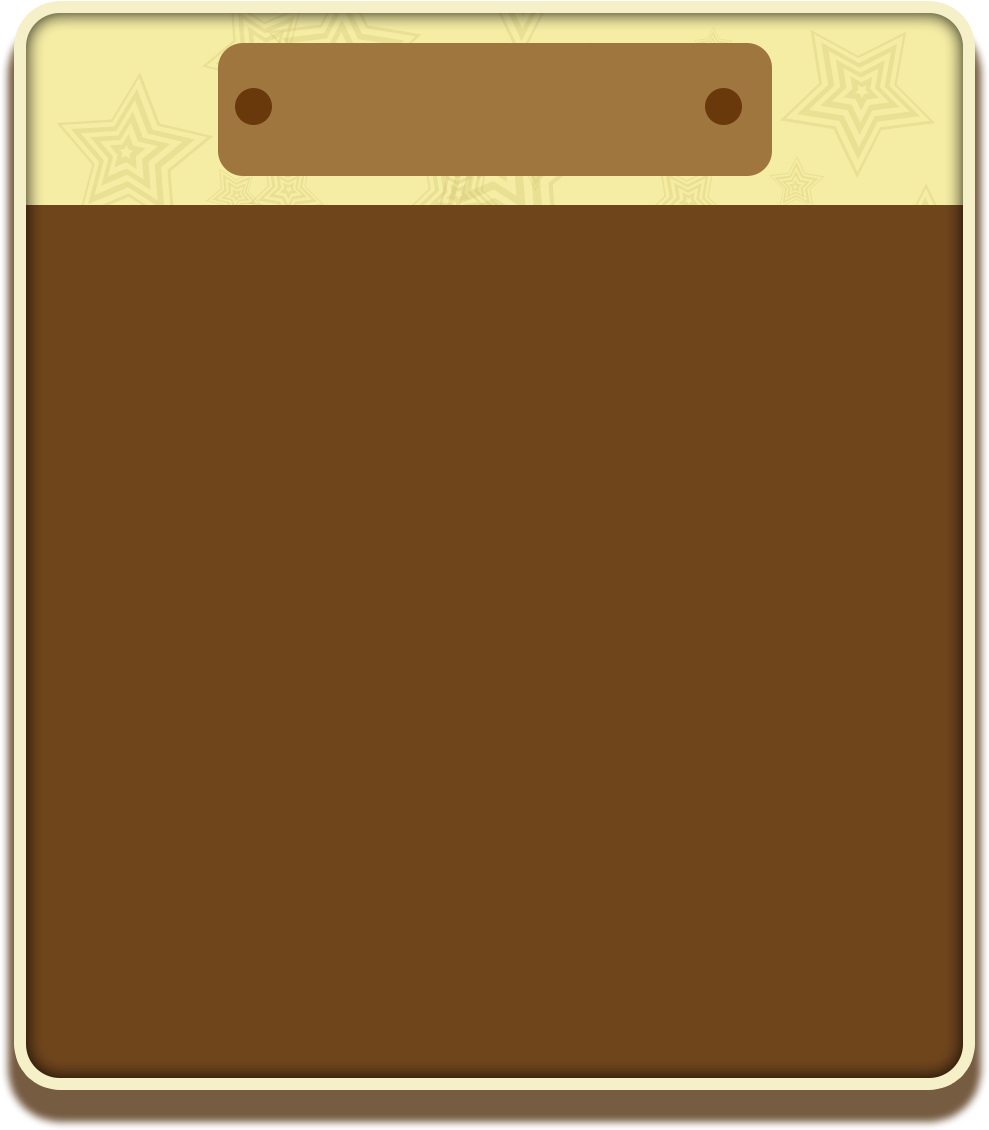
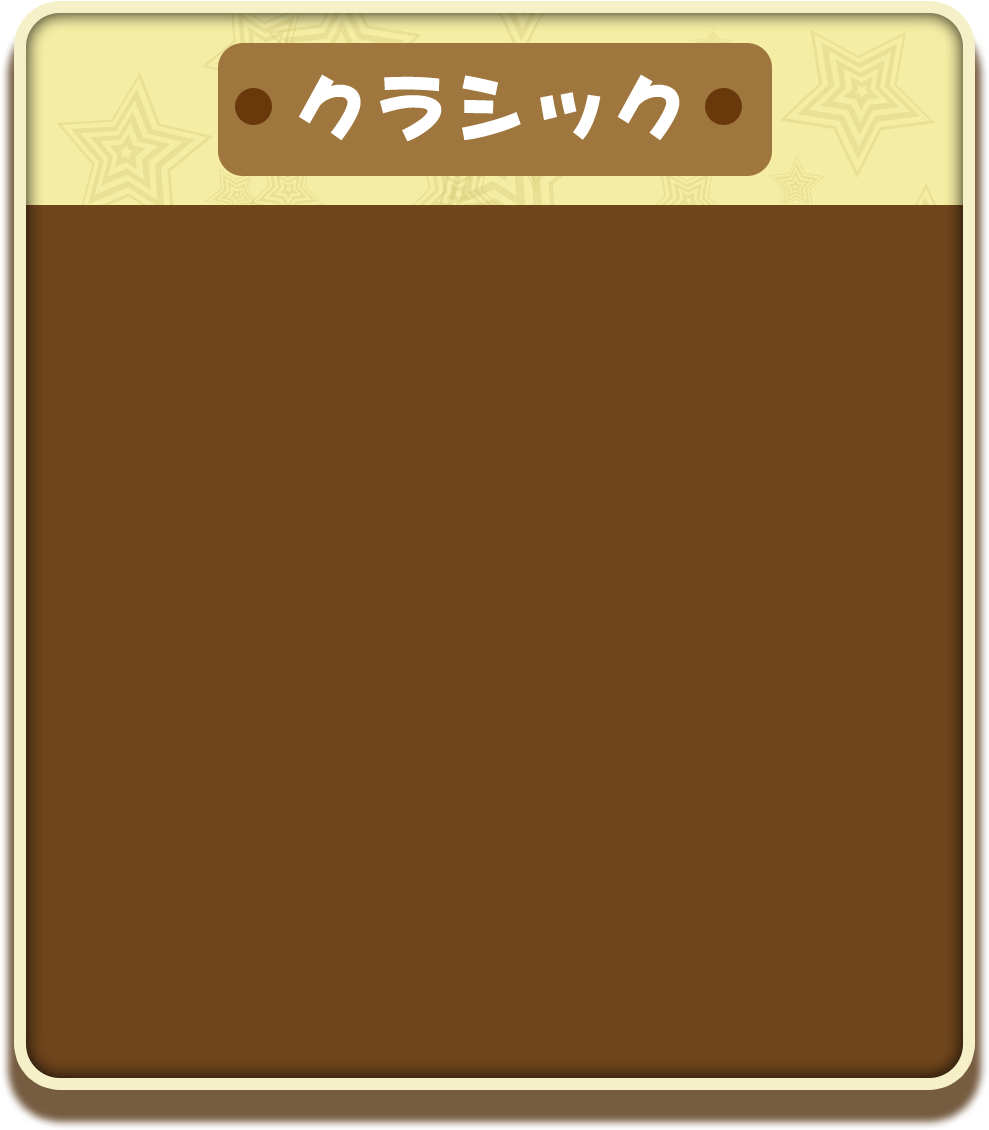
Updated album name image.

Changed region(s): [[0.3033, 0.0619, 0.6977, 0.1239]]

diff --git a/platforms/ios/www/js/page/Main.js b/platforms/ios/www/js/page/Main.js
@@ -28,10 +28,6 @@ CQ.Page.Main = {
             var album = CQ.Album.getAlbum(albumId), lastLevel = CQ.Datastore.Picture.getLastLevel(album.id);
             console.log('Album {0}, last level {1}'.format(albumId, lastLevel));
 
-            if (albumId == 1) {
-                $(CQ.Id.Main.$ALBUM_NAME).text(album.name);
-            }
-
             // render and bind events for all levels
             for (var level = 1; level <= album.levels.length; level++) {
                 (function(album, level, lastLevel) {
@@ -167,8 +163,6 @@ CQ.Page.Main = {
 
             if (nextAlbum) {
                 // display next album levels
-                $(CQ.Id.Main.$ALBUM_NAME).text(nextAlbum.name);
-
                 if (CQ.Album.isAlbumLocked(nextAlbumId)) {
                     $(CQ.Id.Main.$ALBUM_EACH_LOCKED.format(nextAlbumId)).show();
                 } else {
@@ -196,8 +190,7 @@ CQ.Page.Main = {
                 $(CQ.Id.Main.$ALBUM_CONTAINER).show();
             }
 
-            var nextAlbumId = --CQ.Page.Main.albumId, nextAlbum = CQ.Album.getAlbum(nextAlbumId);
-            $(CQ.Id.Main.$ALBUM_NAME).text(nextAlbum.name);
+            var nextAlbumId = --CQ.Page.Main.albumId;
 
             if (CQ.Album.isAlbumLocked(nextAlbumId)) {
                 $(CQ.Id.Main.$ALBUM_EACH_LOCKED.format(nextAlbumId)).show();
